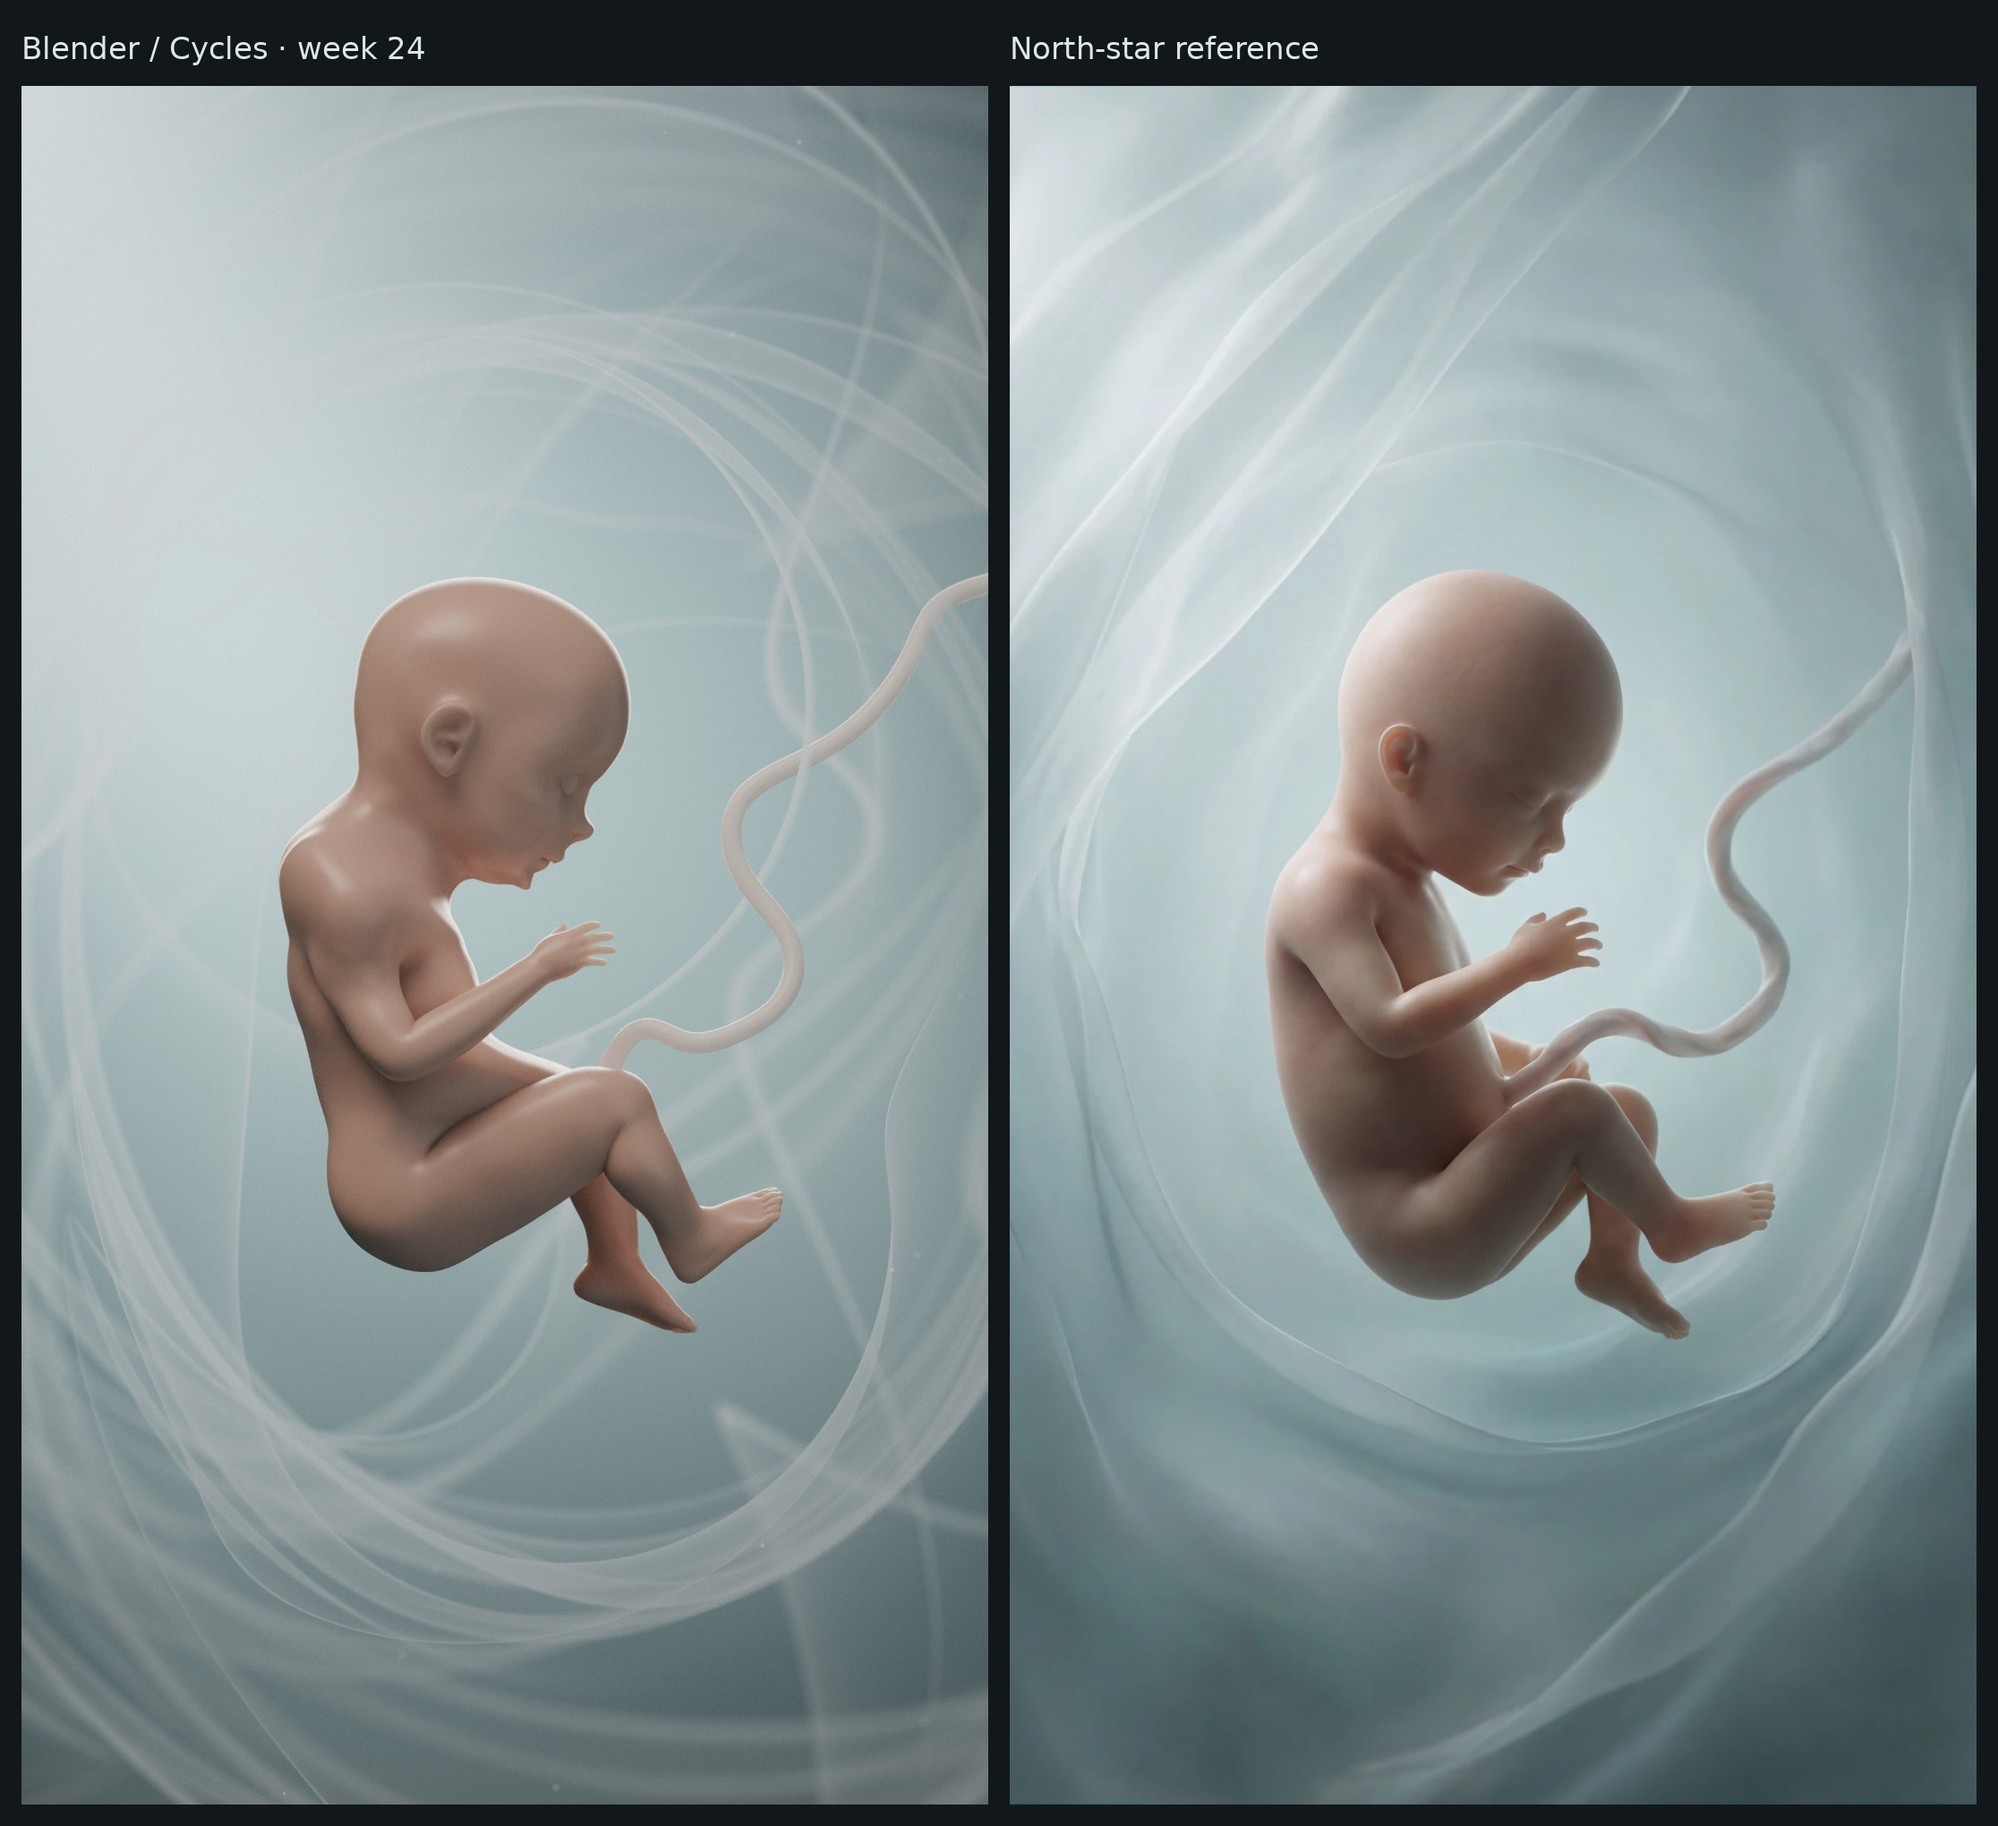
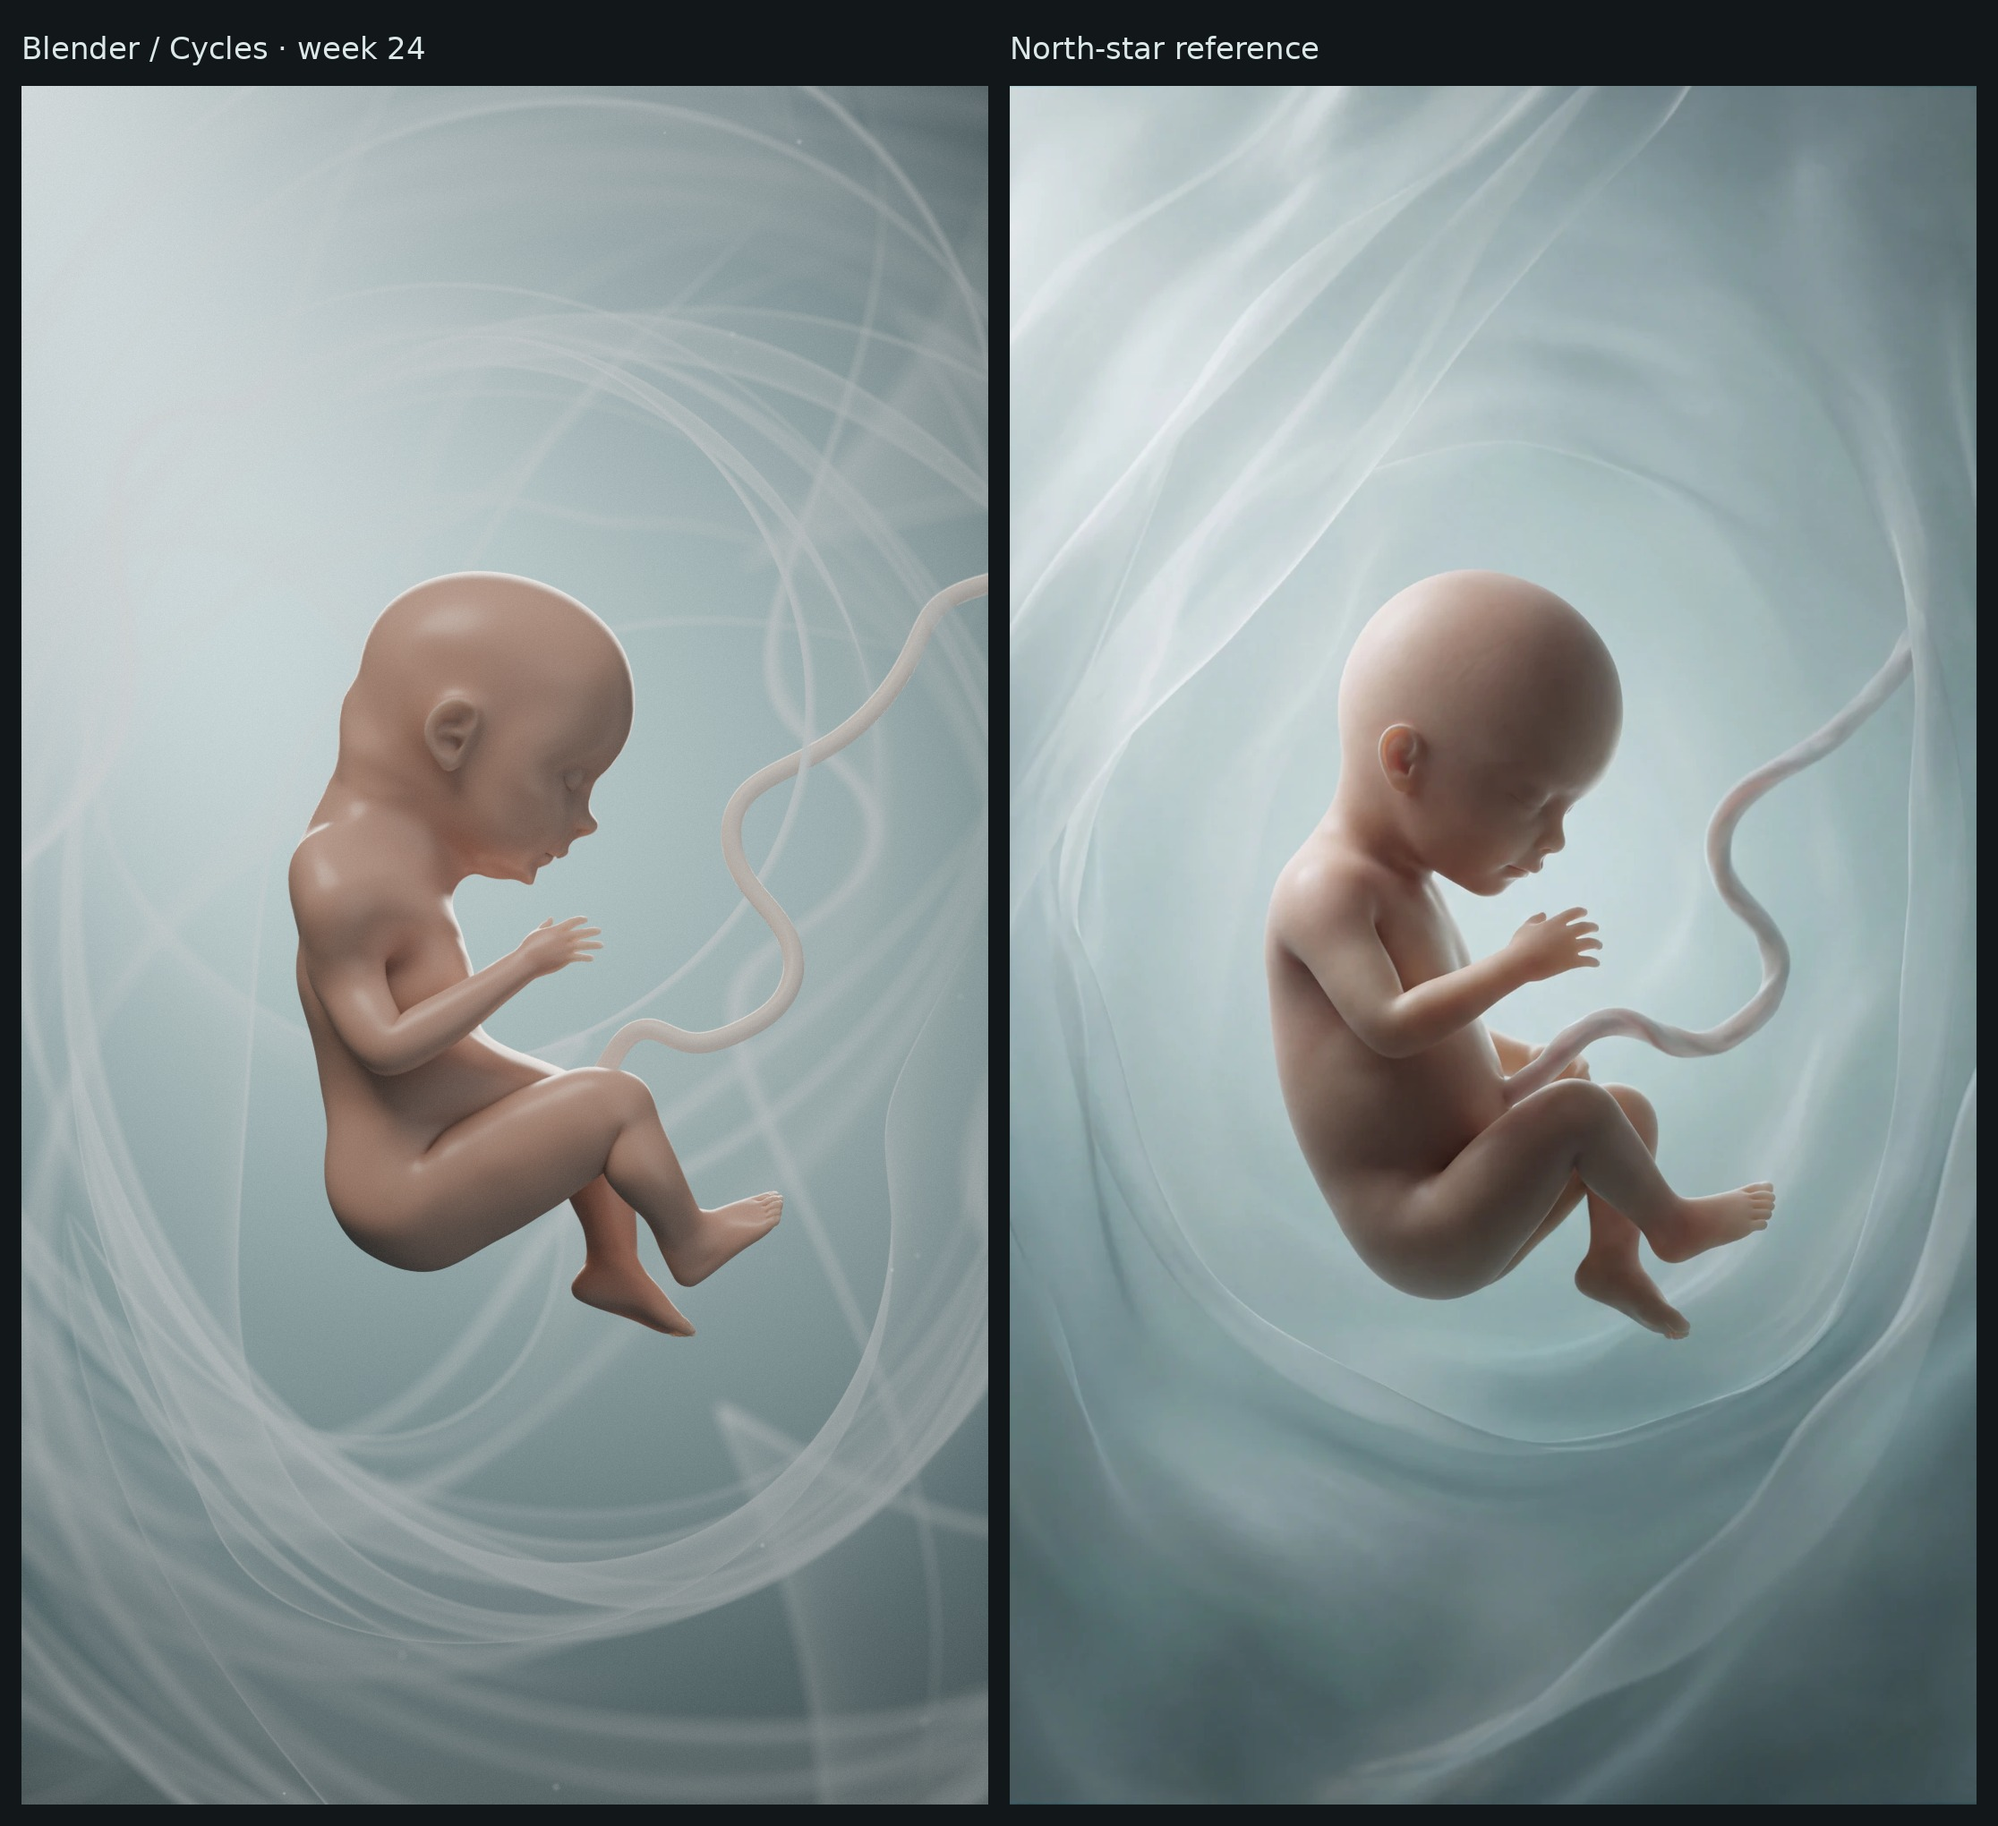
Fetal Growth Explorer: fuller nape, lower shoulders
neck-back-scale-depth target so the occiput flows into the back, clavicles
dropped further and less upper-trunk depth: the back now reads as one arc
from crown to rump instead of a notch and a shoulder hump.

Claude-Session: https://claude.ai/code/session_012GPESLoAzkgxi7MKnnsx3V

diff --git a/fetal-growth-explorer/blender/scripts/fge/mhbody.py b/fetal-growth-explorer/blender/scripts/fge/mhbody.py
@@ -39,7 +39,7 @@ MASK = ROOT / "lookdev" / "reference_mask.png"
 
 SHAPE_TARGETS = {
     "stomach/stomach-pregnant-incr.target.gz": 1.0,  # the round fetal abdomen
-    "torso/torso-scale-depth-incr.target.gz": 0.5,
+    "torso/torso-scale-depth-incr.target.gz": 0.3,
     "buttocks/buttocks-volume-incr.target.gz": 0.5,
     **{f"legs/{sd}-upperleg-fat-incr.target.gz": 0.3 for sd in ("l", "r")},  # soft, full thighs
     **{f"hands/{sd}-hand-scale-decr.target.gz": 0.5 for sd in ("l", "r")},
@@ -48,6 +48,7 @@ SHAPE_TARGETS = {
     **{f"cheek/{sd}-cheek-volume-decr.target.gz": 0.4 for sd in ("l", "r")},
     "nose/nose-scale-depth-incr.target.gz": 0.2,
     "chin/chin-prominent-incr.target.gz": 0.35,
+    "neck/neck-back-scale-depth-incr.target.gz": 1.0,  # a full nape: the occiput flows into the back
 }
 HEAD_SCALE = 1.5
 HEAD_DROP = 0.06
@@ -69,7 +70,7 @@ THORACIC = ("spine03", "spine02", "spine01")
 NECK = ("neck01", "neck02", "neck03")
 FINGER_CURL = tuple(f"finger{f}-{j}.{sd}" for f in range(2, 6) for j in (1, 2, 3) for sd in ("L", "R"))
 FINGER_CURL_DEG = 8.0
-CLAVICLE_DROP_DEG = -12.0  # shoulders down, relaxed (the rest pose reads shrugged under the big head)
+CLAVICLE_DROP_DEG = -25.0  # shoulders down, relaxed (the rest pose reads shrugged under the big head)
 # lumbar flex, thoracic flex, neck flex, head flex (deg, + = flexion), head scale %, scale %, x mm, z mm, roll deg.
 # Lumbar flexion tucks the pelvis under (the reference's round, low rump).
 PRIOR = np.array([25.0, 25.0, 8.0, -5.0, -10.0, 0.0, 0.0, 0.0, 0.0])
